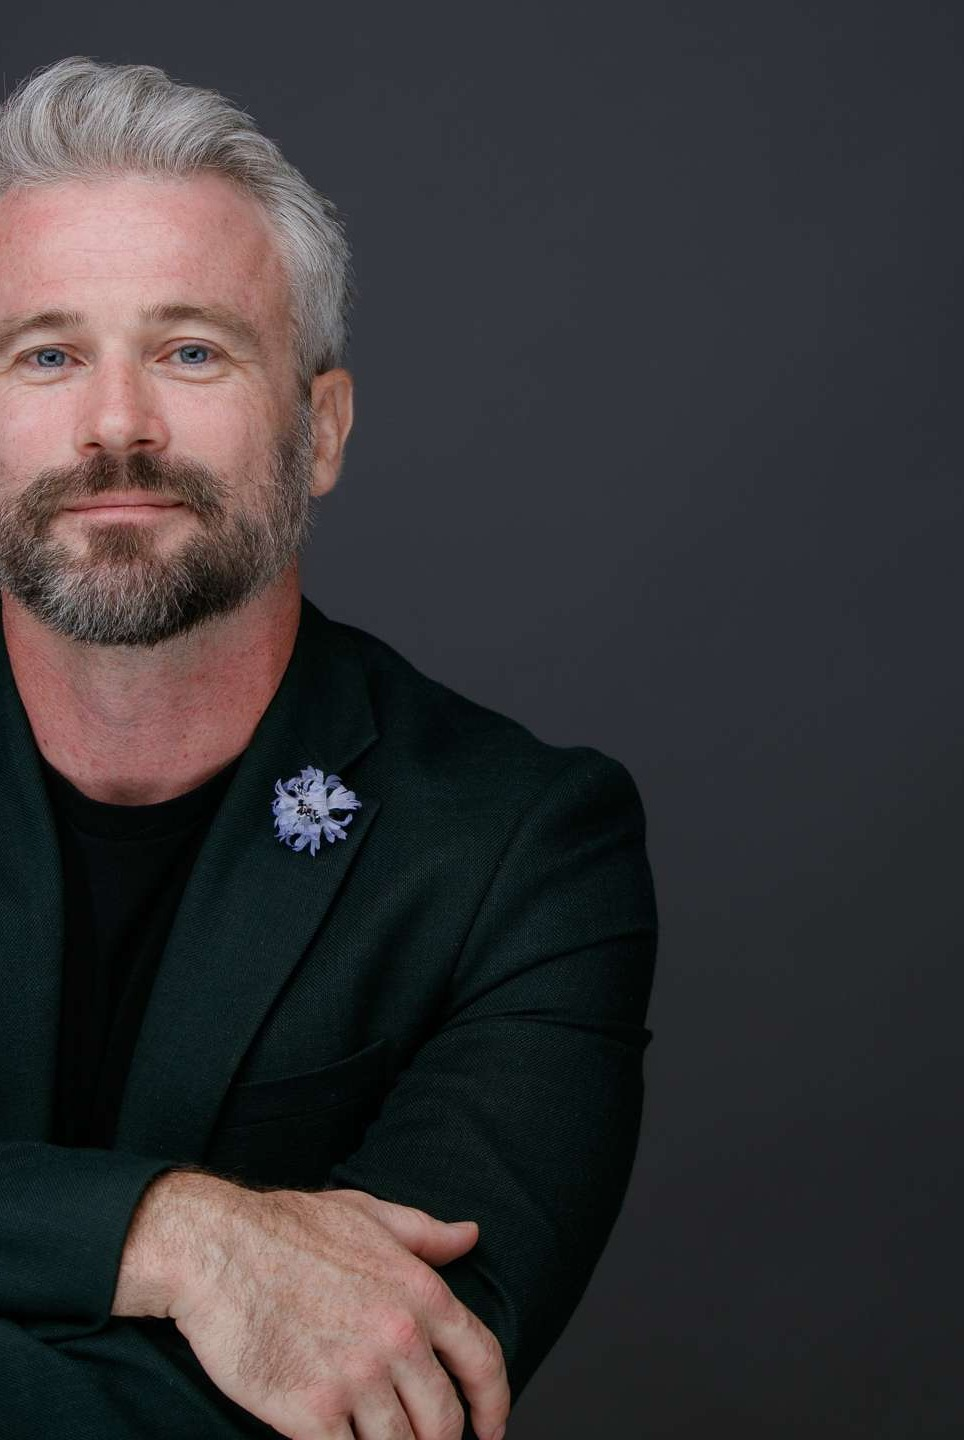
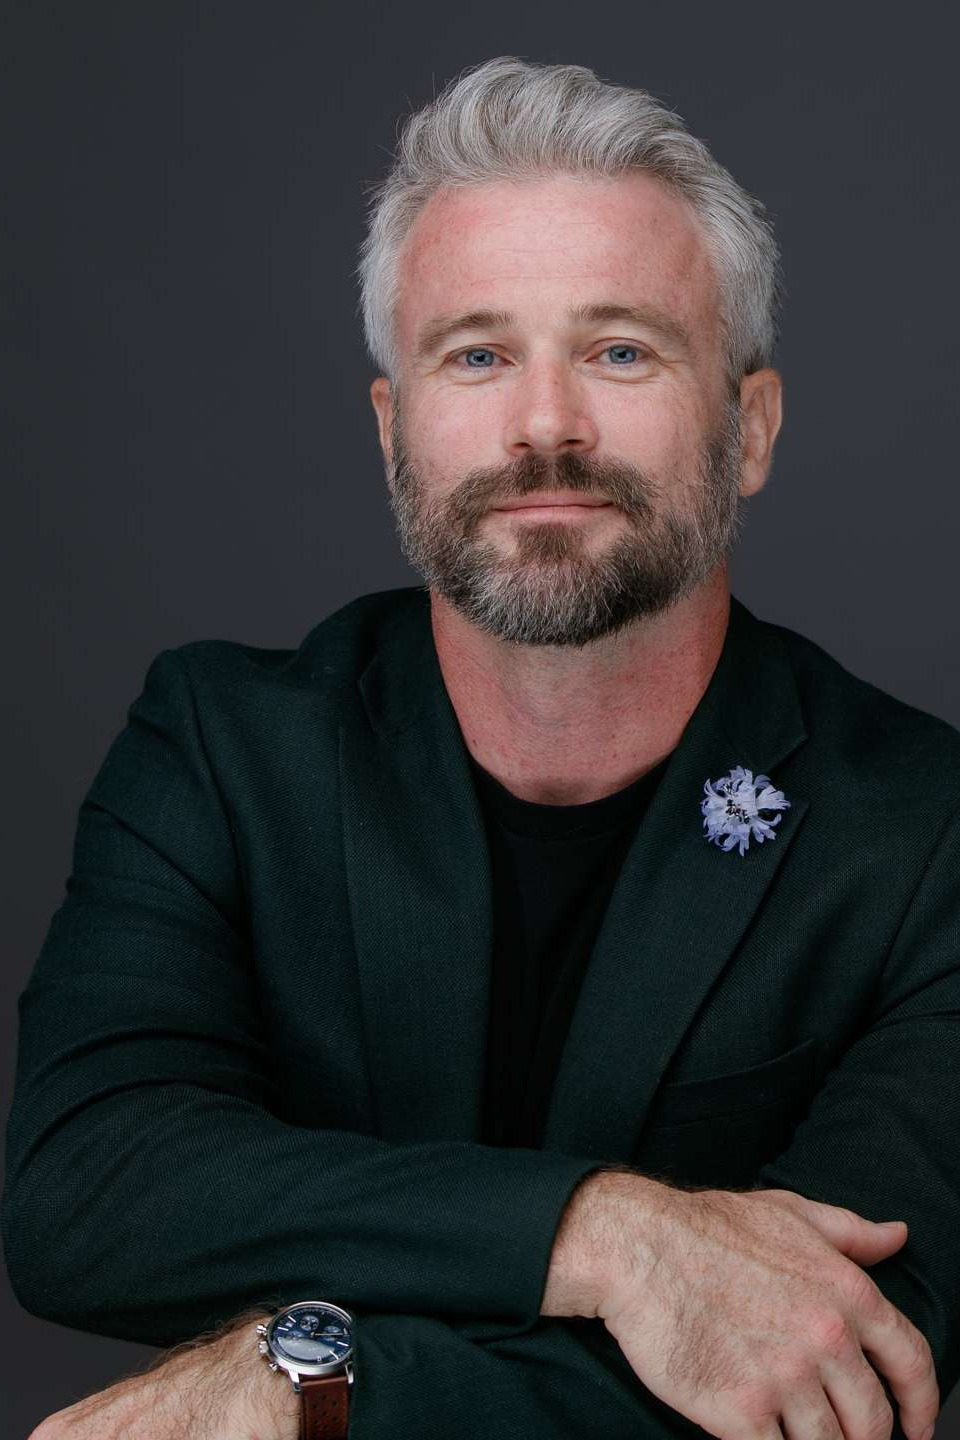
Hero: Layout A — full-bleed photo with dark overlay, face-detected crop

diff --git a/src/components/Hero.tsx b/src/components/Hero.tsx
@@ -15,36 +15,35 @@ export default function Hero() {
   return (
     <section
       id="hero"
-      className="relative min-h-[90vh] flex items-center overflow-hidden bg-bg"
+      className="relative min-h-[90vh] flex items-center overflow-hidden"
     >
-      {/* Full-bleed background — portrait crop, desktop */}
+      {/* Layout A: full-bleed photo, dark overlay, text on top */}
       <div className="absolute inset-0 z-0">
         <Image
           src="/images/headshot-portrait.jpg"
           alt="Dr. Greg Newkirk"
           fill
-          className="object-cover object-[60%_top]"
+          className="object-cover object-center"
           priority
         />
-        {/* Strong gradient left → clear right */}
-        <div className="absolute inset-0 bg-gradient-to-r from-bg from-40% via-bg/80 via-60% to-bg/10" />
-        {/* Bottom fade */}
-        <div className="absolute bottom-0 left-0 right-0 h-32 bg-gradient-to-t from-bg to-transparent" />
+        {/* Dark overlay — solid enough to read text everywhere */}
+        <div className="absolute inset-0 bg-black/65" />
       </div>
 
-      <div className="relative z-10 w-full max-w-6xl mx-auto px-6 md:px-12 py-16">
-        {/* Mobile photo card — shown only on small screens */}
-        <div className="flex md:hidden mb-8 justify-center">
-          <div className="relative w-40 h-40 rounded-full overflow-hidden border-2 border-accent-cyan/40 shadow-xl">
-            <Image
-              src="/images/headshot-portrait.jpg"
-              alt="Dr. Greg Newkirk"
-              fill
-              className="object-cover object-top"
-            />
-          </div>
+      {/* Mobile circular headshot — shows above text on small screens */}
+      <div className="absolute top-16 right-6 md:hidden z-10">
+        <div className="relative w-24 h-24 rounded-full overflow-hidden border-2 border-accent-cyan/50 shadow-xl">
+          <Image
+            src="/images/headshot-portrait.jpg"
+            alt="Dr. Greg Newkirk"
+            fill
+            className="object-cover object-top"
+          />
         </div>
+      </div>
 
+      {/* Text content */}
+      <div className="relative z-10 w-full max-w-6xl mx-auto px-6 md:px-12 py-16">
         <div className="max-w-lg">
           <span className="section-rule"></span>
           <span className="section-label">Microbiologist · Science Communicator</span>
